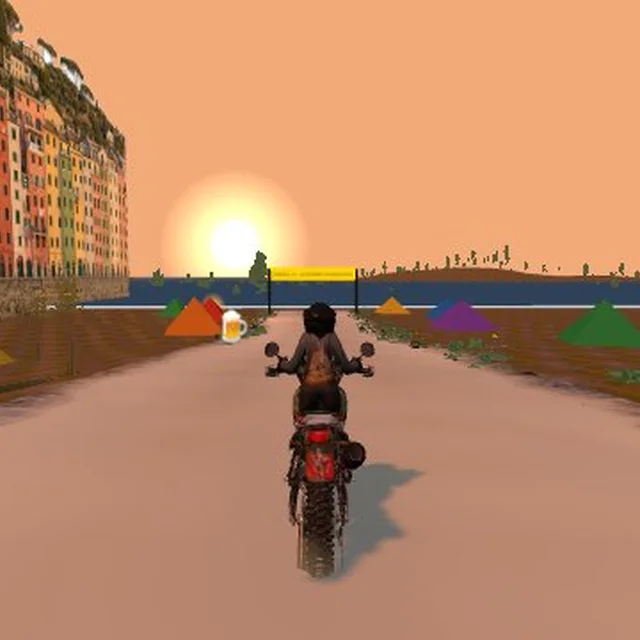
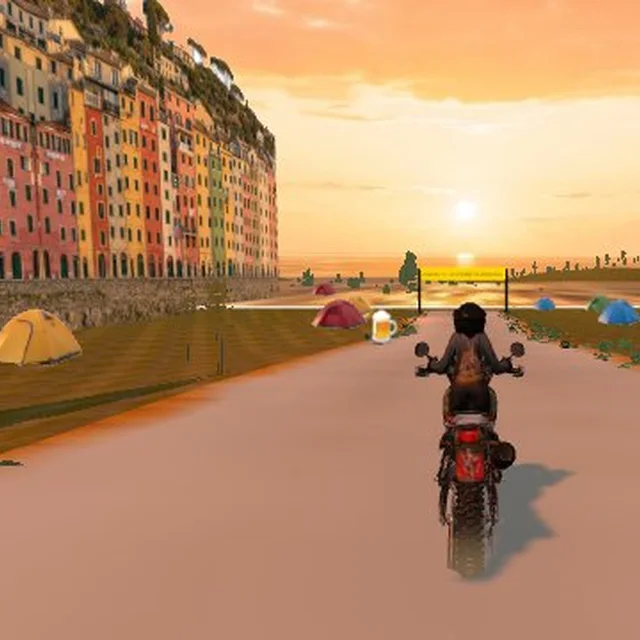
next v137 / v2 n. 37: Cef Adventure, sfondi fotografici a zone (Appennino, calanchi, golfo ligure al tramonto), spiaggia di sabbia, mare e tende fotografiche; impennata piu' facile
Claude-Session: https://claude.ai/code/session_01NjZ5nBkwQLXqzaf4ei9CTY

diff --git a/next/gioco.js b/next/gioco.js
@@ -77,7 +77,7 @@ const POT_A = POT && POTTER_CLIFF.length ? POTTER_CLIFF[0][0] : 0, POT_B = POT &
 const PW_E = [-.3, .05, .3, 1.3, 4, 9, 17, 30], PW_H = [0, 0, 7, 10.5, 15, 21, 27, 17], PC_H = [0, 0, 14, 26, 36, 48, 62, 82], PC_S = [0, 0, .12, .3, .45, .58, .68, .74];   /* profilo dei bordi: a sinistra la parete (verticale per 5 metri e mezzo, poi il fianco della montagna), a destra lo strapiombo */
 const NFX = { luc: [], occhi: [], fuochi: [], stelle: null };
 const CZ = s => s < 520 ? 0 : s < 900 ? 1 : s < 1250 ? 2 : s < 1700 ? 3 : s < 2350 ? 4 : s < 3010 ? 5 : 6;   /* CEF ADVENTURE, i paesaggi lungo il viaggio (dalle foto del Gabbah): 0 bosco di collina, 1 calanchi grigi, 2 bosco fangoso, 3 pascolo d'alta quota con le mucche, 4 versante verde con la staccionata, 5 discesa ligure tra rocce e pini col mare davanti, 6 il molo del porto */
-const CZC = (s, c, o, land) => { let r = 0, g = 0, b = 0; for (const ds of [-28, 28]) { const z = CZ(s + ds); let x = c[o], y = c[o + 1], w = c[o + 2]; const n = .8 + vn(s * .05, o * .013) * .4; if (z === 1) { if (land) { x = 1.3 * n; y = 1.06 * n; w = 2.05 * n; } else { x = .74 * n; y = .78 * n; w = .9 * n; } } else if (z === 3) { x *= 1.3; y *= 1.16; w *= .7; } else if (z === 4) { x *= .9; y *= 1.1; w *= .85; } else if (z === 5) { if (land) { x *= 1.5; y *= 1.14; w *= 1.05; } else { x = 1.12 * n; y = 1.02 * n; w = .86 * n; } } else if (z === 6) { if (land) { x = 1.9; y = 1.75; w = 3.3; } else { x = y = .95; w = 1; } } r += x; g += y; b += w; } c[o] = r / 2; c[o + 1] = g / 2; c[o + 2] = b / 2; };   /* il colore del terreno cambia da zona a zona, sfumando in una cinquantina di metri: sui bordi di roccia e' un grigio (calanchi), un beige caldo (Liguria) o il cemento del molo */
+const CZC = (s, c, o, land) => { let r = 0, g = 0, b = 0; for (const ds of [-28, 28]) { const z = CZ(s + ds); let x = c[o], y = c[o + 1], w = c[o + 2]; const n = .8 + vn(s * .05, o * .013) * .4; if (z === 1) { if (land) { x = 1.3 * n; y = 1.06 * n; w = 2.05 * n; } else { x = .74 * n; y = .78 * n; w = .9 * n; } } else if (z === 3) { x *= 1.3; y *= 1.16; w *= .7; } else if (z === 4) { x *= .9; y *= 1.1; w *= .85; } else if (z === 5) { if (land) { x *= 1.5; y *= 1.14; w *= 1.05; } else { x = 1.12 * n; y = 1.02 * n; w = .86 * n; } } else if (z === 6) { if (land) { x *= 1.7; y *= 1.5; w *= 1.75; } else { x = 1.2 * n; y = 1.32 * n; w = 1.5 * n; } } r += x; g += y; b += w; } c[o] = r / 2; c[o + 1] = g / 2; c[o + 2] = b / 2; };   /* il colore del terreno cambia da zona a zona, sfumando in una cinquantina di metri: sui bordi di roccia e' un grigio (calanchi), un beige caldo (Liguria) o il cemento del molo */
 const cliffAt = s => { if (POT) for (const [a, b, c] of POTTER_CLIFF) if (s >= a && s < b) return c; return 0; };   /* Angelo Potter: da che parte c'e' il vuoto (1 destra, -1 sinistra, 0 niente) */
 /* LEVENTINO: le Terre Rosse (dove si sale la terra diventa rossa) e le risaie (un solo livello d'acqua per tutto il fondovalle) */
 const RED = LEV ? Float32Array.from(tr.y, y => clamp((y - 1) / 9, 0, 1)) : null, PAD = LEV ? Float32Array.from(tr.y, (_, i) => paddyAt(tr, i * DS)) : null, redS = s => RED ? RED[Math.max(0, Math.min(tr.n - 1, Math.round(s / DS)))] : 0;
@@ -157,14 +157,14 @@ const sideLimit = (s, sign) => { const k = tr.k[Math.min(tr.n - 1, Math.round(s 
 for (const sign of [-1, 1]) { // terreno ai lati: prato, e sottobosco nel single track e sulla mulattiera
   const VS = 1, n = Math.floor(tr.len / VS) + 1, cols = 8, pos = [], uv = [], vcol = [], idx = [], g = new T.BufferGeometry(); let cur = null, start = 0;
   for (let i = 0; i < n; i++) { const s = i * VS, hw = widthAt(tr, s) / 2, lim = RANCH ? hw + 10 : Math.max(hw + 1, sideLimit(s, sign)); for (let c = 0; c < cols; c++) { const u = c / (cols - 1), kq = tr.k[Math.min(tr.n - 1, Math.round(s / DS))], fq = POT ? (kq * sign > .002 ? Math.min(1, (.8 / Math.abs(kq) - hw) / 30) : 1) : 1, d = POT ? sign * (hw + (PW_E[c] > 0 ? PW_E[c] * fq : PW_E[c])) : sign * (laneOff(tr, s, sign) + hw - .3 + (lim - hw + .3) * u * u); at(tr, s, d, P); let gy = POT ? groundY(tr, s, sign * Math.min(Math.abs(d), hw + 1), true) : groundY(tr, s, d, true); const gyB = gy; if (POT && c) { const K = cliffK(s); gy += K * (sign > 0 ? -PC_H[c] : PW_H[c]) - (1 - K) * Math.max(0, PW_E[c] - 6) * .12 + (c > 2 ? (vn(s * .11 + c * 3.1, sign * 5 + c) - .5) * (sign > 0 ? 3.2 : 4.2) * K : 0); }   /* da una parte il dirupo che precipita, dall'altra la parete di roccia */ if (RANCH && c) gy = RS(s, d, P.x, P.z);   /* al ranch il bordo e una spalla d'erba larga che scende piano fino al prato, senza scalini */ pos.push(P.x, gy - (c ? 0 : .04), P.z); uv.push((d + (POT ? sign * Math.abs(gy - gyB) : 0)) / (POT ? 6 : 9), s / (POT ? 6 : 9));   /* sulle pareti a picco la roccia non si stira: la texture segue la parete */ const k = .74 + .36 * vn(s * .07 + 11, d * .09 + sign * 7) + .16 * (vn(s * .45, d * .5) - .5), br = vn(s * .05 + 40, d * .06); const R = redS(s) * clamp(vn(s * .06 + 3, d * .09 + 8) * 2.8 - .3, 0, 1), pale = R * vn(s * .21, d * .3 + 5) * .5; vcol.push(k * (1 + br * .12) * (1 + 1.25 * R + pale), k * (1 - .16 * R + pale * .5), k * (1 - br * .22) * (1 - .45 * R + pale * .35)); if (CEFA) CZC(s, vcol, vcol.length - 3); if (POT && sign > 0) { const sh = 1 - cliffK(s) * PC_S[c], L = vcol.length; const pv2 = 1 + cliffK(s) * ((vn(s * .07, c * 1.9 + 4) - .5) * .8 + (vn(PC_H[c] * .5 + s * .02, 3.1) - .5) * .5); vcol[L - 3] *= sh * .88 * pv2; vcol[L - 2] *= sh * .94 * pv2; vcol[L - 1] *= sh * 1.1 * pv2; } if (POT && sign < 0 && c > 1) { const K = cliffK(s), L = vcol.length, st = vn(PW_H[c] * .9 + s * .015, 7.3), pt = vn(s * .09, c * 1.7 + 2), b = 1 + K * (.25 + (st - .5) * .5 + (pt - .5) * .4), moss = K * clamp((c - 4) / 3, 0, 1) * (.15 + pt * .3); vcol[L - 3] *= b * (1.08 - moss * .4); vcol[L - 2] *= b * (1 + moss * .12); vcol[L - 1] *= b * (.9 - moss * .45); }   /* la parete: roccia piu' chiara, a strati e a chiazze, col muschio in alto */   /* lo strapiombo si fa buio e azzurrino scendendo: si legge che e' un vuoto, non un pendio */ } }   /* Rive Rosse: terra nuda rossa e rosata a chiazze, poca erba */
-  for (let i = 0; i < n - 1; i++) { const kd = tr.kind[Math.min(tr.n - 1, Math.round((i + .5) * VS / DS))], z9 = CEFA ? CZ((i + .5) * VS) : -1, mt = z9 === 1 || z9 === 5 || z9 === 6 ? 2 : z9 === 3 ? 0 : kd === 'e' || kd === 'a' || kd === 'z' ? 2 : kd === 't' || kd === 'm' ? 1 : 0; if (mt !== cur) { if (cur !== null) g.addGroup(start, idx.length - start, cur); cur = mt; start = idx.length; }
+  for (let i = 0; i < n - 1; i++) { const kd = tr.kind[Math.min(tr.n - 1, Math.round((i + .5) * VS / DS))], z9 = CEFA ? CZ((i + .5) * VS) : -1, mt = z9 === 6 ? 3 : z9 === 1 || z9 === 5 ? 2 : z9 === 3 ? 0 : kd === 'e' || kd === 'a' || kd === 'z' ? 2 : kd === 't' || kd === 'm' ? 1 : 0; if (mt !== cur) { if (cur !== null) g.addGroup(start, idx.length - start, cur); cur = mt; start = idx.length; }
     for (let c = 0; c < cols - 1; c++) { const a = i * cols + c, b = a + cols; if (sign > 0) idx.push(a, a + 1, b, a + 1, b + 1, b); else idx.push(a, b, a + 1, a + 1, b, b + 1); } }
   g.addGroup(start, idx.length - start, cur);
   g.setAttribute('position', new T.Float32BufferAttribute(pos, 3)); g.setAttribute('uv', new T.Float32BufferAttribute(uv, 2)); g.setIndex(idx); g.computeVertexNormals();
   g.setAttribute('color', new T.Float32BufferAttribute(vcol, 3));
   const SNOW = () => new T.MeshLambertMaterial({ color: 0xf3f7fc, normalMap: ntex('../img/tex/meadow_n.webp'), normalScale: new T.Vector2(.5, .5) });
   const SAND = () => new T.MeshLambertMaterial({ map: sabbiaTex(1.3, 1.3), color: 0xffffff });
-  scene.add(new T.Mesh(g, DES ? [SAND(), SAND()] : SNOWY ? [SNOW(), SNOW()] : [new T.MeshLambertMaterial({ map: tex('../img/tex/meadow_d.webp'), normalMap: ntex('../img/tex/meadow_n.webp'), vertexColors: true }), new T.MeshLambertMaterial({ map: tex('../img/tex/forest_d.webp'), normalMap: ntex('../img/tex/forest_n.webp'), vertexColors: true }), POT || CEFA ? (() => { const t = tex('modelli/roccia.webp?v=1'); t.repeat.set(POT ? .23 : .5, POT ? .23 : .5); return new T.MeshLambertMaterial({ map: t, vertexColors: true }); })()   /* Angelo Potter: parete e strapiombo con la roccia fotografica (Higgsfield), a riquadri di 20 metri cosi' non si vede la ripetizione */ : new T.MeshLambertMaterial({ map: tex('../img/tex/mossrock_d.webp'), normalMap: ntex('../img/tex/mossrock_n.webp'), vertexColors: true })]));
+  scene.add(new T.Mesh(g, DES ? [SAND(), SAND()] : SNOWY ? [SNOW(), SNOW()] : [new T.MeshLambertMaterial({ map: tex('../img/tex/meadow_d.webp'), normalMap: ntex('../img/tex/meadow_n.webp'), vertexColors: true }), new T.MeshLambertMaterial({ map: tex('../img/tex/forest_d.webp'), normalMap: ntex('../img/tex/forest_n.webp'), vertexColors: true }), POT || CEFA ? (() => { const t = tex('modelli/roccia.webp?v=1'); t.repeat.set(POT ? .23 : .5, POT ? .23 : .5); return new T.MeshLambertMaterial({ map: t, vertexColors: true }); })()   /* Angelo Potter: parete e strapiombo con la roccia fotografica (Higgsfield), a riquadri di 20 metri cosi' non si vede la ripetizione */ : new T.MeshLambertMaterial({ map: tex('../img/tex/mossrock_d.webp'), normalMap: ntex('../img/tex/mossrock_n.webp'), vertexColors: true }), ...(CEFA ? [new T.MeshLambertMaterial({ map: sabbiaTex(.45, .45), vertexColors: true })] : [])]));
 }
 for (const f of tr.forks) { // l'ISOLA di bosco tra le due vie del bivio
   const pos = [], uv = [], vcol = [], idx = [], cols = 9; let r = 0;
@@ -216,7 +216,7 @@ if (!SNOWY && !DES && !POT) { // bordi mai uguali: ciuffi d'erba, piante basse e
     rows.forEach(([x, y, z, sl], i) => { e.set(-sl, 0, 0); q.setFromEuler(e); ps.set(x, y, z); m.compose(ps, q, sc); vm.setMatrixAt(i, m); }); scene.add(vm); }
   const base = new T.Mesh(new T.PlaneGeometry(9000, 9000), new T.MeshLambertMaterial({ color: POT ? 0x1f2a30 : DES ? 0xe08a34 : SNOWY ? 0xeef3f9 : 0x6f8a3a })); base.rotation.x = -Math.PI / 2; base.position.set((x0 + x1) / 2, yMin - (POT ? 330 : 30), (z0 + z1) / 2); base.userData.noShadow = 1; scene.add(base);
   if (POT && METEO === 's' && ORA === 'g') { scene.background.set(0x5b6f88); scene.fog = new T.Fog(0xaab4bd, 220, 1500); }   /* Angelo Potter: cielo di temporale come nel poster */
-  const pano = tl.load(POT ? 'modelli/pano-potter.webp?v=1' : DES ? 'modelli/pano-deserto.webp?v=1' : SNOWY ? '../img/pano-9.webp' : RANCH ? 'modelli/pano-gusta.webp?v=3' : GEV ? '../img/pano-13.webp' : '../img/pano-0.webp'); pano.colorSpace = T.SRGBColorSpace; pano.wrapS = T.MirroredRepeatWrapping; pano.repeat.x = 2;
+  const pano = tl.load(CEFA ? 'modelli/pano-cef-b.webp?v=1' : POT ? 'modelli/pano-potter.webp?v=1' : DES ? 'modelli/pano-deserto.webp?v=1' : SNOWY ? '../img/pano-9.webp' : RANCH ? 'modelli/pano-gusta.webp?v=3' : GEV ? '../img/pano-13.webp' : '../img/pano-0.webp'); pano.colorSpace = T.SRGBColorSpace; pano.wrapS = T.MirroredRepeatWrapping; pano.repeat.x = 2;
   const cyl = new T.Mesh(new T.CylinderGeometry(1100, 1100, 1470, 48, 1, true), new T.MeshBasicMaterial({ map: pano, side: T.BackSide, fog: false, depthWrite: false })); if (METEO === 'n') cyl.visible = false; if (ORA === 'n') cyl.material.color.set(0x10162a); else if (ORA === 't') cyl.material.color.set(0xffc9a0); else if (METEO === 'p') cyl.material.color.set(VIET ? 0x78838a : 0xb4bcc0); cyl.material.userData.tinted = 1;
   cyl.position.y = 240; cyl.renderOrder = -1; scene.add(cyl); NFX.cyl = cyl; P.sky = cyl;
 }
@@ -306,12 +306,12 @@ function barkTex() {   /* corteccia disegnata: solchi verticali scuri, creste ch
   const gate = (s, label) => { at(tr, s, 0, P); const w = widthAt(tr, s), grp = new T.Group(); grp.position.set(P.x, P.y, P.z); grp.rotation.y = -P.h;
     const mat = new T.MeshLambertMaterial({ color: 0x2a2a2a }); for (const sx of [-1, 1]) { const p = new T.Mesh(new T.CylinderGeometry(.14, .14, 5.2, 8), mat); p.position.set(sx * (w / 2 + .6), 2.6, 0); grp.add(p); }
     const b = board(label, '#ffd400', w + 1.6, 1.5); b.position.y = 4.6; grp.add(b); scene.add(grp); };
-  if (CEFA) { const Q = {}, iE = tr.n - 1, hE = tr.h[iE], yE = tr.y[iE], fx = Math.sin(hE), fz = -Math.cos(hE);
-    { const gp = new T.Group(), sea = new T.Mesh(new T.PlaneGeometry(5000, 5000), new T.MeshLambertMaterial({ color: 0x2f86c0 })); sea.rotation.x = -Math.PI / 2; sea.position.set(0, 0, -2514); gp.add(sea); gp.position.set(tr.x[iE], yE - .55, tr.z[iE]); gp.rotation.y = -hE; scene.add(gp); NFX.mare = sea;
+  if (CEFA) { const TENDA_R = .545; const Q = {}, iE = tr.n - 1, hE = tr.h[iE], yE = tr.y[iE], fx = Math.sin(hE), fz = -Math.cos(hE);
+    { const gp = new T.Group(), sea = new T.Mesh(new T.PlaneGeometry(5000, 5000), new T.MeshBasicMaterial({ color: 0x2f86c0, fog: false, map: (() => { const t = tl.load('modelli/cef-mare.webp?v=1'); t.colorSpace = T.SRGBColorSpace; t.repeat.set(3, 1); t.offset.x = -1; return t; })() })); sea.material.userData.tinted = 1;   /* l'acqua e' la stessa foto dello sfondo: la scia del sole resta dritta davanti all'arrivo */ sea.rotation.x = -Math.PI / 2; sea.position.set(0, 0, -2514); gp.add(sea); gp.position.set(tr.x[iE], yE - .55, tr.z[iE]); gp.rotation.y = -hE; scene.add(gp); NFX.mare = sea;
       const fo = new T.Mesh(new T.PlaneGeometry(5000, 7), new T.MeshBasicMaterial({ color: 0xf4fbff, transparent: true, opacity: .75 })); fo.rotation.x = -Math.PI / 2; fo.position.set(0, .06, -17); gp.add(fo); }   /* il mare di Rapallo: comincia trenta metri dopo il traguardo, con la riga di schiuma sulla battigia */
     { const cv = document.createElement('canvas'); cv.width = cv.height = 128; const x = cv.getContext('2d'), gr = x.createRadialGradient(64, 64, 6, 64, 64, 62); gr.addColorStop(0, 'rgba(255,252,225,1)'); gr.addColorStop(.16, 'rgba(255,225,140,1)'); gr.addColorStop(.3, 'rgba(255,150,70,.55)'); gr.addColorStop(1, 'rgba(255,110,50,0)'); x.fillStyle = gr; x.fillRect(0, 0, 128, 128); const sm = new T.SpriteMaterial({ map: new T.CanvasTexture(cv), transparent: true, opacity: 0, fog: false, depthWrite: false, blending: T.AdditiveBlending }); sm.userData.tinted = 1; const so = new T.Sprite(sm); so.position.set(tr.x[iE] + fx * 1000 + fz * 150, yE + 62, tr.z[iE] + fz * 1000 - fx * 150); so.scale.set(300, 300, 1); so.frustumCulled = false; scene.add(so); NFX.sole = so; }   /* il sole basso sul mare: compare scendendo verso la costa */
     { const ct = tl.load('modelli/cef-case.webp?v=1'); ct.colorSpace = T.SRGBColorSpace; ct.wrapS = T.MirroredRepeatWrapping; ct.repeat.x = 3; ct.anisotropy = 4; const cm = new T.MeshBasicMaterial({ map: ct, alphaTest: .5, side: T.DoubleSide }); cm.userData.tinted = 1; const ca = new T.Mesh(new T.PlaneGeometry(234, 48), cm), lx = Math.cos(hE), lz = Math.sin(hE); ca.position.set(tr.x[iE] - fx * 55 - lx * 46, yE + 22.5, tr.z[iE] - fz * 55 - lz * 46); ca.rotation.y = -hE + Math.PI / 2; scene.add(ca); }   /* il lungomare di Rapallo: la fila di case colorate col colle e i pini (immagine Higgsfield), a sinistra del molo d'arrivo */
-    { const cols = [0xe2412e, 0x2e7de2, 0xf2c230, 0x3aa655, 0xf28a30, 0x8a4fd0, 0xe2412e, 0x2e7de2, 0x3aa655, 0xf2c230], tg = new T.ConeGeometry(1.5, 1.45, 4, 1); for (let i = 0; i < cols.length; i++) { const s = tr.len - 78 + i * 7.4 + hsh(i, 41) * 3, sg = i % 2 ? 1 : -1, hw = widthAt(tr, s) / 2; at(tr, s, sg * (hw + 3 + hsh(i, 42) * 9), Q); const tn = new T.Mesh(tg, new T.MeshLambertMaterial({ color: cols[i], flatShading: true })); tn.position.set(Q.x, groundY(tr, s, sg * (hw + 3), true) + .68, Q.z); tn.rotation.y = -Q.h + Math.PI / 4 + (hsh(i, 43) - .5) * .8; tn.scale.set(1.35, 1.35, 1.7); tn.position.y += .25; tn.castShadow = true; scene.add(tn); } }   /* le tende sulla spiaggia: stanotte si dorme qui */
+    { const tt = tl.load('modelli/cef-tende.webp?v=1'); tt.colorSpace = T.SRGBColorSpace; for (let i = 0; i < 10; i++) { const s = tr.len - 80 + i * 7.6 + hsh(i, 41) * 3, sg = i % 2 ? 1 : -1, hw = widthAt(tr, s) / 2, d = sg * (hw + 3.2 + hsh(i, 42) * 9); at(tr, s, d, Q); const t1 = tt.clone(); t1.repeat.set(.25, 1); t1.offset.x = (i % 4) * .25; t1.needsUpdate = true; const sm = new T.SpriteMaterial({ map: t1, alphaTest: .4 }); sm.userData.tinted = 1; const sp = new T.Sprite(sm), w = 3.1 + hsh(i, 43) * .7; sp.center.set(.5, .04); sp.scale.set(w, w * TENDA_R, 1); sp.position.set(Q.x, groundY(tr, s, d, true), Q.z); scene.add(sp); } }   /* le tende sulla spiaggia: stanotte si dorme qui */
     { const sF = tr.len - 30; at(tr, sF, -(widthAt(tr, sF) / 2 + 4.5), Q); const y0 = groundY(tr, sF, -(widthAt(tr, sF) / 2 + 3), true), L = new T.PointLight(0xff8a2a, 50, 40, 1.6); L.position.set(Q.x, y0 + 1.6, Q.z); scene.add(L); const cv = document.createElement('canvas'); cv.width = cv.height = 64; const x = cv.getContext('2d'), gr = x.createRadialGradient(32, 40, 2, 32, 34, 30); gr.addColorStop(0, 'rgba(255,250,200,1)'); gr.addColorStop(.35, 'rgba(255,170,50,.9)'); gr.addColorStop(1, 'rgba(255,60,0,0)'); x.fillStyle = gr; x.fillRect(0, 0, 64, 64); const fm = new T.SpriteMaterial({ map: new T.CanvasTexture(cv), transparent: true, depthWrite: false, fog: false }); fm.userData.tinted = 1; const fl = new T.Sprite(fm); fl.position.set(Q.x, y0 + 1.1, Q.z); fl.scale.set(2.6, 3.2, 1); scene.add(fl); NFX.fuochi.push([L, fl]); }
     { const lt = tl.load('modelli/cef-logo.webp?v=1'); lt.colorSpace = T.SRGBColorSpace; const lg = new T.Mesh(new T.PlaneGeometry(6.2, 2.08), new T.MeshBasicMaterial({ map: lt, side: T.DoubleSide })); at(tr, 34, widthAt(tr, 34) / 2 + 2.6, Q); lg.position.set(Q.x, tr.y[Math.round(34 / DS)] + 2.3, Q.z); lg.rotation.y = -Q.h - .35; scene.add(lg);
       let c = 0, top = 0, sTop = 0; for (let i = 0; i < tr.n; i++) if (tr.y[i] > top) { top = tr.y[i]; sTop = i * DS; } const cb = board('CRINALE · 1405 m · DA QUI SI SCENDE AL MARE', '#ffd400', 6.4, 1); at(tr, sTop, -(widthAt(tr, sTop) / 2 + 1.6), Q); cb.position.set(Q.x, top + 1.9, Q.z); cb.rotation.y = -Q.h; scene.add(cb);
@@ -323,7 +323,7 @@ function barkTex() {   /* corteccia disegnata: solchi verticali scuri, creste ch
     { const rt = tex('modelli/roccia.webp?v=1'), rm = new T.MeshLambertMaterial({ map: rt, color: 0xe2ddd2 }), gm = new T.MeshLambertMaterial({ map: rt, color: 0x9a9aa2 }), R9 = [], G9 = []; for (let i = 0; i < 90; i++) { const s = 2360 + hsh(i, 71) * 640, sg = hsh(i, 72) < .5 ? -1 : 1, hw = widthAt(tr, s) / 2, d = sg * (hw + 1.6 + hsh(i, 73) * hsh(i, 75) * 16), r = .45 + hsh(i, 74) * 1.7; at(tr, s, d, Q); R9.push([Q.x, groundY(tr, s, sg * (hw + 2), true) + r * .2, Q.z, r, i]); }
       for (let i = 0; i < 70; i++) { const s = 530 + hsh(i, 81) * 360, sg = hsh(i, 82) < .5 ? -1 : 1, hw = widthAt(tr, s) / 2, d = sg * (hw + 2 + hsh(i, 83) * 20), r = 1.2 + hsh(i, 84) * 3.2; at(tr, s, d, Q); G9.push([Q.x, groundY(tr, s, sg * (hw + 2), true) - r * .25, Q.z, r, i]); }
       for (const [L9, mt, fl] of [[R9, rm, 1], [G9, gm, .55]]) { const im = new T.InstancedMesh(new T.DodecahedronGeometry(1, 1), mt, L9.length), M9 = new T.Object3D(); L9.forEach((q, i) => { M9.position.set(q[0], q[1], q[2]); M9.rotation.set(hsh(q[4], 5) * 6, hsh(q[4], 6) * 6, hsh(q[4], 7) * 6); M9.scale.set(q[3] * 1.25, q[3] * fl, q[3]); M9.updateMatrix(); im.setMatrixAt(i, M9.matrix); }); im.castShadow = true; im.receiveShadow = true; scene.add(im); } }   /* rocce chiare ai lati della discesa ligure; gobbe grigie di scisto nei calanchi */
-    if (ORA === 'g' && METEO === 's') { NFX.sky = [scene.background.clone(), scene.fog.color.clone(), sun.color.clone(), sun.intensity, hemi.intensity]; NFX.c1 = new T.Color(0xf2ab78); NFX.c2 = new T.Color(0xe8a57e); NFX.c3 = new T.Color(0xff9a58); } NFX.c4 = new T.Color(0x2f86c0); NFX.c5 = new T.Color(0x3f6f9e); }
+    if (ORA === 'g' && METEO === 's') { NFX.sky = [scene.background.clone(), scene.fog.color.clone(), sun.color.clone(), sun.intensity, hemi.intensity]; NFX.c1 = new T.Color(0xf2ab78); NFX.c2 = new T.Color(0xe8a57e); NFX.c3 = new T.Color(0xff9a58); } NFX.c4 = new T.Color(0x5f9fd0); NFX.c5 = new T.Color(0xffffff); NFX.pan = [['modelli/pano-cef-a.webp?v=1', 1090, 0], ['modelli/pano-cef-l.webp?v=1', 1080, Math.PI / 2 - hE]].map(([u, r, ry]) => { const t = tl.load(u); t.colorSpace = T.SRGBColorSpace; t.wrapS = T.MirroredRepeatWrapping; t.repeat.x = 2; const m = new T.MeshBasicMaterial({ map: t, side: T.BackSide, fog: false, depthWrite: false, transparent: true, opacity: 0 }); m.userData.tinted = 1; const c = new T.Mesh(new T.CylinderGeometry(r, r, 1470, 48, 1, true), m); c.position.y = 240; c.rotation.y = ry; c.renderOrder = -1; c.visible = false; scene.add(c); return c; }); }   /* tre sfondi fotografici (Higgsfield) che seguono il percorso: Appennino verde, calanchi grigi, golfo ligure al tramonto col sole dritto davanti all'arrivo */
   if (NOTT) { const Q = {}, keep = m => { m.userData.tinted = 1; return m; };
     { const cv = document.createElement('canvas'); cv.width = cv.height = 64; const x = cv.getContext('2d'), gr = x.createRadialGradient(32, 32, 1, 32, 32, 31); gr.addColorStop(0, 'rgba(255,255,220,1)'); gr.addColorStop(.18, 'rgba(225,255,120,.95)'); gr.addColorStop(.5, 'rgba(170,255,60,.28)'); gr.addColorStop(1, 'rgba(120,255,40,0)'); x.fillStyle = gr; x.fillRect(0, 0, 64, 64); const lt = new T.CanvasTexture(cv);
       for (let k = 0; k < 6; k++) { const n = 110, g = new T.BufferGeometry(), a = new Float32Array(n * 3); for (let i = 0; i < n; i++) { const j = k * 1000 + i, s = 15 + hsh(j, 1) * (tr.len - 30), sg = hsh(j, 2) < .5 ? -1 : 1, hw = widthAt(tr, s) / 2; at(tr, s, sg * (hw + .3 + hsh(j, 3) * hsh(j, 5) * 16), Q); a[i * 3] = Q.x; a[i * 3 + 1] = tr.y[Math.round(s / DS)] + .35 + hsh(j, 4) * 2.2; a[i * 3 + 2] = Q.z; } g.setAttribute('position', new T.BufferAttribute(a, 3));
@@ -632,7 +632,7 @@ let SAE = null; function saetta(k) { if (!SAE) { SAE = document.createElement('d
   else if (k === 1) { SAE.style.transition = 'none'; SAE.style.background = 'rgba(255,255,236,.95)'; setTimeout(() => { SAE.style.transition = 'background .3s'; SAE.style.background = 'rgba(8,12,34,.3)'; }, 80); thud(1); setTimeout(() => thud(.7), 150); if (navigator.vibrate) try { navigator.vibrate([60, 40, 120]); } catch (e) {} }   /* la saetta ti prende: lampo e tuono */
   else { SAE.style.transition = 'opacity .6s'; SAE.style.opacity = 0; } }
 function cefStep() { const t = time; for (const [L, fl] of NFX.fuochi) { const k = .8 + .2 * Math.sin(t * 11) + .12 * Math.sin(t * 23.7); L.intensity = 50 * k; fl.scale.set(2.6 * (.9 + .1 * Math.sin(t * 17)), 3.2 * k, 1); }
-  if (NFX.sky) { const p = clamp((S.s / tr.len - .55) / .4, 0, 1), k = p * p * (3 - 2 * p), [b0, f0, c0, i0, h0] = NFX.sky; scene.background.copy(b0).lerp(NFX.c1, k); scene.fog.color.copy(f0).lerp(NFX.c2, k); sun.color.copy(c0).lerp(NFX.c3, k); sun.intensity = i0 * (1 - .22 * k); hemi.intensity = h0 * (1 - .2 * k); if (NFX.cyl) { NFX.cyl.material.color.setRGB(1, 1 - .2 * k, 1 - .36 * k); NFX.cyl.material.transparent = true; NFX.cyl.material.opacity = 1 - clamp((p - .35) / .5, 0, 1); } if (NFX.sole) NFX.sole.material.opacity = clamp((p - .4) / .45, 0, 1); if (NFX.mare) NFX.mare.material.color.copy(NFX.c4).lerp(NFX.c5, k); } }   /* Cef Adventure: si parte di giorno e si arriva al mare col tramonto; il falo' della spiaggia tremola */
+  if (NFX.sky) { const p = clamp((S.s / tr.len - .55) / .4, 0, 1), k = p * p * (3 - 2 * p), [b0, f0, c0, i0, h0] = NFX.sky; scene.background.copy(b0).lerp(NFX.c1, k); scene.fog.color.copy(f0).lerp(NFX.c2, k); sun.color.copy(c0).lerp(NFX.c3, k); sun.intensity = i0 * (1 - .22 * k); hemi.intensity = h0 * (1 - .2 * k); if (NFX.cyl) NFX.cyl.material.color.setRGB(1, 1 - .2 * k, 1 - .36 * k); if (NFX.pan) { const oa = clamp((S.s - 470) / 90, 0, 1) * (1 - clamp((S.s - 860) / 90, 0, 1)), ol = clamp((S.s - 2250) / 200, 0, 1); NFX.pan[0].material.opacity = oa; NFX.pan[0].visible = oa > .01; NFX.pan[1].material.opacity = ol; NFX.pan[1].visible = ol > .01; NFX.pan[0].position.x = NFX.pan[1].position.x = S.x; NFX.pan[0].position.z = NFX.pan[1].position.z = S.z; } if (NFX.mare) NFX.mare.material.color.copy(NFX.c4).lerp(NFX.c5, k); } }   /* Cef Adventure: si parte di giorno e si arriva al mare col tramonto; il falo' della spiaggia tremola */
 function nottStep() { const t = time; for (let k = 0; k < NFX.luc.length; k++) { const m = NFX.luc[k], w = Math.sin(t * (.55 + k * .13) + k * 1.9); m.material.opacity = Math.max(0, w) ** 1.5 * .95 + .03; m.position.set(Math.sin(t * .31 + k * 2.1) * .7, Math.sin(t * .47 + k) * .35, Math.cos(t * .27 + k * 1.3) * .7); }
   for (const g of NFX.occhi) { const d = g.userData.s - S.s, bl = Math.sin(t * 1.1 + g.userData.ph) > .93; g.visible = d > 9 && d < 75 && !bl; }
   for (const [L, fl] of NFX.fuochi) { const k = .8 + .2 * Math.sin(t * 11) + .12 * Math.sin(t * 23.7); L.intensity = 60 * k; fl.scale.set(2.6 * (.9 + .1 * Math.sin(t * 17)), 3.2 * k, 1); }
@@ -760,7 +760,7 @@ function step(dt) {
   // manopola: quanto chiedi (0..1) e quanto il motore dà davvero (apre e chiude in un attimo, ma non a scatto)
   const want = state === 'play' && !brk && !down ? (O.gas === 'a' ? (S.v < vSafe + 1.5 ? 1 : 0) : gasHeld ? gasCmd : 0) : 0;
   // IMPENNATA: colpo di gas (chiudi e riapri subito) a bassa e media velocità e la ruota davanti si alza. La tieni su col gas, scende se chiudi o freni; troppo gas da piano e ti ribalti
-  { const now = time, on = gasHeld && state === 'play'; if (on && !S.gasWas) S.prsT = now; if (!on && S.gasWas) { S.relT = now; S.heldT = now - (S.prsT ?? now); } if (on && !S.gasWas && now - (S.relT ?? -9) < .35 && (S.heldT || 0) > .5 && S.v > 3 && Math.abs(S.lean) < .4 && !(S.wh > .05) && O.gas !== 'a') S.whV = 2.1 * (.7 + .3 * BK.wh) * (S.v > 19 ? 1.15 : 1); S.gasWas = on;   /* si impenna a qualsiasi velocità: forte dura poco, ma basta per scavalcare un tronco */
+  { const now = time, on = gasHeld && state === 'play'; if (on && !S.gasWas) S.prsT = now; if (!on && S.gasWas) { S.relT = now; S.heldT = now - (S.prsT ?? now); } if (on && !S.gasWas && now - (S.relT ?? -9) < .7 && (S.heldT || 0) > .12 && S.v > 3 && Math.abs(S.lean) < .6 && !(S.wh > .05) && O.gas !== 'a') S.whV = 2.35 * (.7 + .3 * BK.wh) * (S.v > 19 ? 1.15 : 1); S.gasWas = on;   /* si impenna a qualsiasi velocità: forte dura poco, ma basta per scavalcare un tronco */
     S.wh = S.wh || 0; S.whV = S.whV || 0; if (S.wh > 0 || S.whV > 0) { S.whV += ((want > .35 ? 5 * (want - .35) * Math.max(.18, 1 - S.v / 20) : -6) - 3.2 * S.wh - (brk ? 16 : 0) - S.whV * 2.4) * dt; S.wh += S.whV * dt;
       if (S.wh <= 0) { if (S.whV < -1.2) { S.hit = Math.max(S.hit, .3); thud(.3); } S.wh = 0; S.whV = 0; } if (S.wh > 1.22) { S.wh = 0; S.whV = 0; crash(0); } if (down) { S.whV = Math.min(S.whV, 0) - 4 * dt; } } }
   S.thr = (S.thr || 0) + (want - (S.thr || 0)) * Math.min(1, dt * (want > (S.thr || 0) ? 14 : 20)); const thr = S.thr, gasOn = thr > .05;   // il gas automatico molla prima delle curve strette (non frena: quello lo fai tu)
@@ -937,13 +937,13 @@ const canzoneGara = () => musSel === 'sua' ? SUA[PID] : musSel === 'caso' ? CANZ
 const NOW = { pilota: PL.id, moto: BK.id, pista: PID, meteo: METEO, ora: ORA }, SEL = { ...NOW }, dirty = () => SEL.pilota !== NOW.pilota || SEL.moto !== NOW.moto || SEL.pista !== NOW.pista || SEL.meteo !== NOW.meteo || SEL.ora !== NOW.ora || (SEL.pilota === 'mio' && mioDirty) || upDirty; let mioDirty = false, upDirty = false;
 function menuDraw() { const p = pById(SEL.pilota), m = motoById(SEL.moto), t = PISTE.find(x => x.id === SEL.pista);
   $('cNum').textContent = String(p.num).padStart(2, '0'); $('cFoto').src = p.id === 'mio' ? '../edt-logo-small.jpg' : 'piloti/' + p.id + '.webp?v=1'; $('cName').textContent = p.name; $('cRole').textContent = (p.ruolo || '') + (ABIL[p.id] ? ' · ' + ABIL[p.id][1] : ''); $('cMoto').textContent = m.name;
-  $('tPs').textContent = t.ps; $('tName').textContent = t.name; $('ptxt').textContent = t.txt; $('tImg').src = 'menu/t-' + t.id + '.webp?v=3';
+  $('tPs').textContent = t.ps; $('tName').textContent = t.name; $('ptxt').textContent = t.txt; $('tImg').src = 'menu/t-' + t.id + '.webp?v=4';
   const bst = t.id === 's' ? 0 : parseFloat(opt('best3' + (t.id === 'g' ? '' : t.id), '0')) || 0; $('tRec').textContent = t.id === 's' ? 'FINITA LA SCUOLA SI PASSA AL GIRO EASY' : (bst ? 'IL TUO RECORD: ' + bst.toFixed(1).replace('.', ',') + ' s' : 'NESSUN RECORD: È IL MOMENTO') + ' · ORO ' + t.med[0] + ' s · ARGENTO ' + t.med[1] + ' s · BRONZO ' + t.med[2] + ' s';
   $('goS').textContent = p.name + ' · ' + m.name + ' · ' + t.name + (dirty() ? ' — CARICO E SI PARTE' : '');
   for (const e of document.querySelectorAll('#gPil .card')) e.classList.toggle('on', e.dataset.id === SEL.pilota); for (const e of document.querySelectorAll('#gMoto .card')) e.classList.toggle('on', e.dataset.id === SEL.moto); for (const e of document.querySelectorAll('#gTr .card')) e.classList.toggle('on', e.dataset.id === SEL.pista);
   for (const e of document.querySelectorAll('.card .in')) e.remove(); for (const e of document.querySelectorAll('.card.on')) { const i = document.createElement('i'); i.className = 'in'; i.textContent = e.parentNode.id === 'gPil' ? 'IN SELLA' : e.parentNode.id === 'gMoto' ? 'IN GARAGE' : 'SI VA QUI'; e.appendChild(i); } }
 { const pick = (k, id) => { SEL[k] = id; setOpt(k, id); menuDraw(); }, bar = (n, v) => `${n}<i><u style="width:${Math.round(clamp((v - .6) / .9, .08, 1) * 100)}%"></u></i>`;
-  $('gTr').innerHTML = PISTE.map(t => `<button class="card" type="button" data-id="${t.id}"><img src="menu/t-${t.id}.webp?v=3" alt="" loading="lazy"><b>${t.name}</b><span>${t.short}</span></button>`).join('');
+  $('gTr').innerHTML = PISTE.map(t => `<button class="card" type="button" data-id="${t.id}"><img src="menu/t-${t.id}.webp?v=4" alt="" loading="lazy"><b>${t.name}</b><span>${t.short}</span></button>`).join('');
   window.profDrawImpl = () => { const p = profGet(), li = livInfo(p.xp); let e = $('prof'); if (!e) { e = document.createElement('div'); e.id = 'prof'; $('chip').parentNode.insertBefore(e, $('chip')); }
     e.innerHTML = '<b>LIVELLO ' + li.level + ' · ' + li.grado.toUpperCase() + '</b><i><u style="width:' + Math.round(li.pct * 100) + '%"></u></i><span>' + (li.need - li.into) + ' al prossimo · 🍺 ' + p.birre + '</span>';
     let g = $('gUp'); if (!g) { const sec = document.createElement('section'); sec.className = 'sec'; sec.innerHTML = '<h2><small>L\u2019OFFICINA</small>POTENZIAMENTI</h2><div id="gUp"></div>'; $('sMoto').parentNode.insertBefore(sec, $('sMoto').nextSibling); g = $('gUp');

diff --git a/v2/game.js b/v2/game.js
@@ -260,7 +260,7 @@ const feat = k => !!P.MODES[mode][k] || rule(k);
 // v58 · ogni percorso ha la sua immagine (img/track-N.webp); alcune sono illustrazioni dedicate
 const TRACK_ART_FILE = { 1: '../v2/salita-infame', 2: 'angelo-potter-card', 9: 'ice-scrofy', 13: 'anti-gev', 14: 'gusta-ranch', 17: 'christmas-madness', 18: 'leventino', 20: 'mirco-gabbah-fest', 21: 'leventino-vietnam-2', 22: 'track-0' };   // v160 · 22 = giro di prova: prima chiedeva un'immagine che non esiste
 const psOf = m => Math.max(1, P.SHOWN().indexOf(m) + 1);   // v59 · numero di prova speciale contando solo i percorsi in menu
-const trackArtOf = m => m.id === 23 ? 'next/menu/t-e.webp?v=3' : 'img/' + (TRACK_ART_FILE[m.id] || 'track-' + m.id) + '.webp?t=1';
+const trackArtOf = m => m.id === 23 ? 'next/menu/t-e.webp?v=4' : 'img/' + (TRACK_ART_FILE[m.id] || 'track-' + m.id) + '.webp?t=1';
 // v57 · Anti-GEV: jeep delle Guardie Ecologiche Volontarie a bordo pista (z in metri davanti alla moto, negativo = davanti)
 // v59 · salto di Angelo
 let leapMul = 1, leapZRate = .5, leapFree = 1, canyonX0 = null, canyonLen = 400, canyonLand = 0, leapTurbo = false, leapV = 10;
@@ -5031,7 +5031,7 @@ function startNext() {
   $('overlay').classList.add('hidden'); setMenu(false); $('pops').innerHTML = ''; setDisabled(true);
   startMusic();
   const st = P.currentStats(), parts = P.currentParts(), upg = {}; for (const u of P.UPGRADES) upg[u.id] = Math.min(5, P.upgradeLevel(u.id));
-  const q = new URLSearchParams({ embed: '1', ...(mode === 3 ? { meteo: V2_DAILY.r === 'rain' ? 'p' : V2_DAILY.r === 'fog' ? 'n' : 's', ora: V2_DAILY.r === 'night' ? 'n' : 'g' } : {}), pista: NEXT_PISTA[mode], moto: NEXT_BIKE[P.currentBike().id] || 'enduro', rider: profile.rider, num: String(profile.custom?.num || ''), mus: '0', shadow: '1', st: JSON.stringify(st), prof: JSON.stringify({ v2: 1, up: upg }), casco: parts.casco?.color || '', fiamma: parts.fiamma?.color || '', v: 'v2-36' }).toString();
+  const q = new URLSearchParams({ embed: '1', ...(mode === 3 ? { meteo: V2_DAILY.r === 'rain' ? 'p' : V2_DAILY.r === 'fog' ? 'n' : 's', ora: V2_DAILY.r === 'night' ? 'n' : 'g' } : {}), pista: NEXT_PISTA[mode], moto: NEXT_BIKE[P.currentBike().id] || 'enduro', rider: profile.rider, num: String(profile.custom?.num || ''), mus: '0', shadow: '1', st: JSON.stringify(st), prof: JSON.stringify({ v2: 1, up: upg }), casco: parts.casco?.color || '', fiamma: parts.fiamma?.color || '', v: 'v2-37' }).toString();
   const host = fsTarget || document.fullscreenElement || document.webkitFullscreenElement || document.body;   // dentro l'elemento che va a schermo intero, altrimenti resterebbe sotto
   if (nextFrame && nextCfg === q && nextFrame.isConnected) { if (nextFrame.parentNode !== host) host.appendChild(nextFrame); nextFrame.style.display = 'block'; nextFrame.contentWindow.postMessage({ t: 'edt-next-restart' }, location.origin); nextFrame.focus(); return; }
   nextFrame?.remove(); nextCfg = q;

diff --git a/next/index.html b/next/index.html
@@ -116,7 +116,7 @@ canvas { position: fixed; inset: 0; width: 100%; height: 100%; display: block; }
 <div class="hud" id="spd">0<small>KM/H</small></div>
 <div class="hud" id="tim">0.0<small id="best"></small></div>
 <div class="hud" id="bar"><i></i></div>
-<div class="hud" id="tag">PROVA · PISTA VERA 3D · TAPPA 1 · PERCORSO ENDURO · v136</div>
+<div class="hud" id="tag">PROVA · PISTA VERA 3D · TAPPA 1 · PERCORSO ENDURO · v137</div>
 <div class="hud hidden" id="tip"></div>
 <div class="hud" id="msg"></div>
 <div id="fine" class="hide"><div class="fb"><small id="fTr"></small><h2 id="fPos"></h2><div id="fTime"></div><div id="fMed"></div><div id="fProf"></div><div class="fc"><ul id="fRows"></ul><ol id="fOrd"></ol></div><div class="frow"><button id="fAgain" type="button">RIPROVA</button><button id="fShare" type="button">SFIDA UN AMICO</button><button id="fMenu" type="button">MENU</button></div></div></div>
@@ -157,7 +157,7 @@ canvas { position: fixed; inset: 0; width: 100%; height: 100%; display: block; }
  </div>
 </div>
 <script>/* si aggiorna da sola: se in rete c'è una versione più nuova di questa pagina, la ricarica saltando la memoria del telefono */
-(function () { var V = 136; fetch('versione.txt?t=' + Date.now(), { cache: 'no-store' }).then(function (r) { return r.text(); }).then(function (t) { var n = parseInt(t, 10); if (n > V && !new RegExp('[?&]v=' + n + '(&|$)').test(location.search)) location.replace(location.pathname + '?v=' + n); }).catch(function () {}); })();</script>
-<script type="module" src="gioco.js?v=136"></script>
+(function () { var V = 137; fetch('versione.txt?t=' + Date.now(), { cache: 'no-store' }).then(function (r) { return r.text(); }).then(function (t) { var n = parseInt(t, 10); if (n > V && !new RegExp('[?&]v=' + n + '(&|$)').test(location.search)) location.replace(location.pathname + '?v=' + n); }).catch(function () {}); })();</script>
+<script type="module" src="gioco.js?v=137"></script>
 </body>
 </html>

diff --git a/v2/index.html b/v2/index.html
@@ -49,7 +49,7 @@ window.EDT_BOARD_URL = 'https://invalid.invalid/exec';
 <link rel="preload" href="anton.woff2" as="font" type="font/woff2" crossorigin>
 <link rel="stylesheet" href="style.css?v=48f0280c">
 <!-- v109.3 · il telefono scarica subito tutti i pezzi del gioco in parallelo, invece che uno dopo l'altro -->
-<link rel="modulepreload" href="v2/game.js?v=188ff027">
+<link rel="modulepreload" href="v2/game.js?v=b5e7cb38">
 <link rel="modulepreload" href="physics.js?v=b9c35116">
 <link rel="modulepreload" href="audio.js?v=3afc3a91">
 <link rel="modulepreload" href="v2/progress.js?v=3da2f9a2">
@@ -206,6 +206,6 @@ window.EDT_BOARD_URL = 'https://invalid.invalid/exec';
     <span>Arriva al rifugio prima del tempo massimo.</span>
   </footer>
 </div>
-<script type="module" src="v2/game.js?v=188ff027"></script>
+<script type="module" src="v2/game.js?v=b5e7cb38"></script>
 </body>
 </html>

diff --git a/tools/v2.py b/tools/v2.py
@@ -11,7 +11,7 @@ import hashlib, os, re, sys
 
 ROOT = os.path.dirname(os.path.dirname(os.path.abspath(__file__)))
 os.makedirs(os.path.join(ROOT, 'v2'), exist_ok=True)
-V2 = 36   # versione della prova: si alza a ogni modifica dell'incastro
+V2 = 37   # versione della prova: si alza a ogni modifica dell'incastro
 
 
 def rep(s, old, new, what):
@@ -34,7 +34,7 @@ const V2_DAILY = (() => { const k = +P.todayKey() || 0, T = [[0, 'g'], [1, 'i'],
 { const m = P.MODES.find(x => x.id === 1); if (m) { m.name = 'Salita Infame'; m.short = 'INFAME'; m.desc = 'Il muro coi gradoni, la pietraia in salita, i tornanti di mulattiera e la cresta in single track. Poi giù a rotta di collo.'; } }
 import * as D from '../duel.js""", 'import duel')
 
-g = rep(g, "const trackArtOf = m => 'img/' + (TRACK_ART_FILE[m.id] || 'track-' + m.id) + '.webp?t=1';", "const trackArtOf = m => m.id === 23 ? 'next/menu/t-e.webp?v=3' : 'img/' + (TRACK_ART_FILE[m.id] || 'track-' + m.id) + '.webp?t=1';", 'copertina Cef')
+g = rep(g, "const trackArtOf = m => 'img/' + (TRACK_ART_FILE[m.id] || 'track-' + m.id) + '.webp?t=1';", "const trackArtOf = m => m.id === 23 ? 'next/menu/t-e.webp?v=4' : 'img/' + (TRACK_ART_FILE[m.id] || 'track-' + m.id) + '.webp?t=1';", 'copertina Cef')
 g = rep(g, "<div><b>${run.jumps}</b><small>SALTI</small></div>", "<div><b>${run.jumps}</b><small>${NEXT_PISTA[mode] !== undefined ? 'TRONCHI' : 'SALTI'}</small></div>", 'tronchi')
 
 # 2b) la Shadow chiodata in garage: moto bonus, si sblocca con una medaglia su Ice Scrofy
